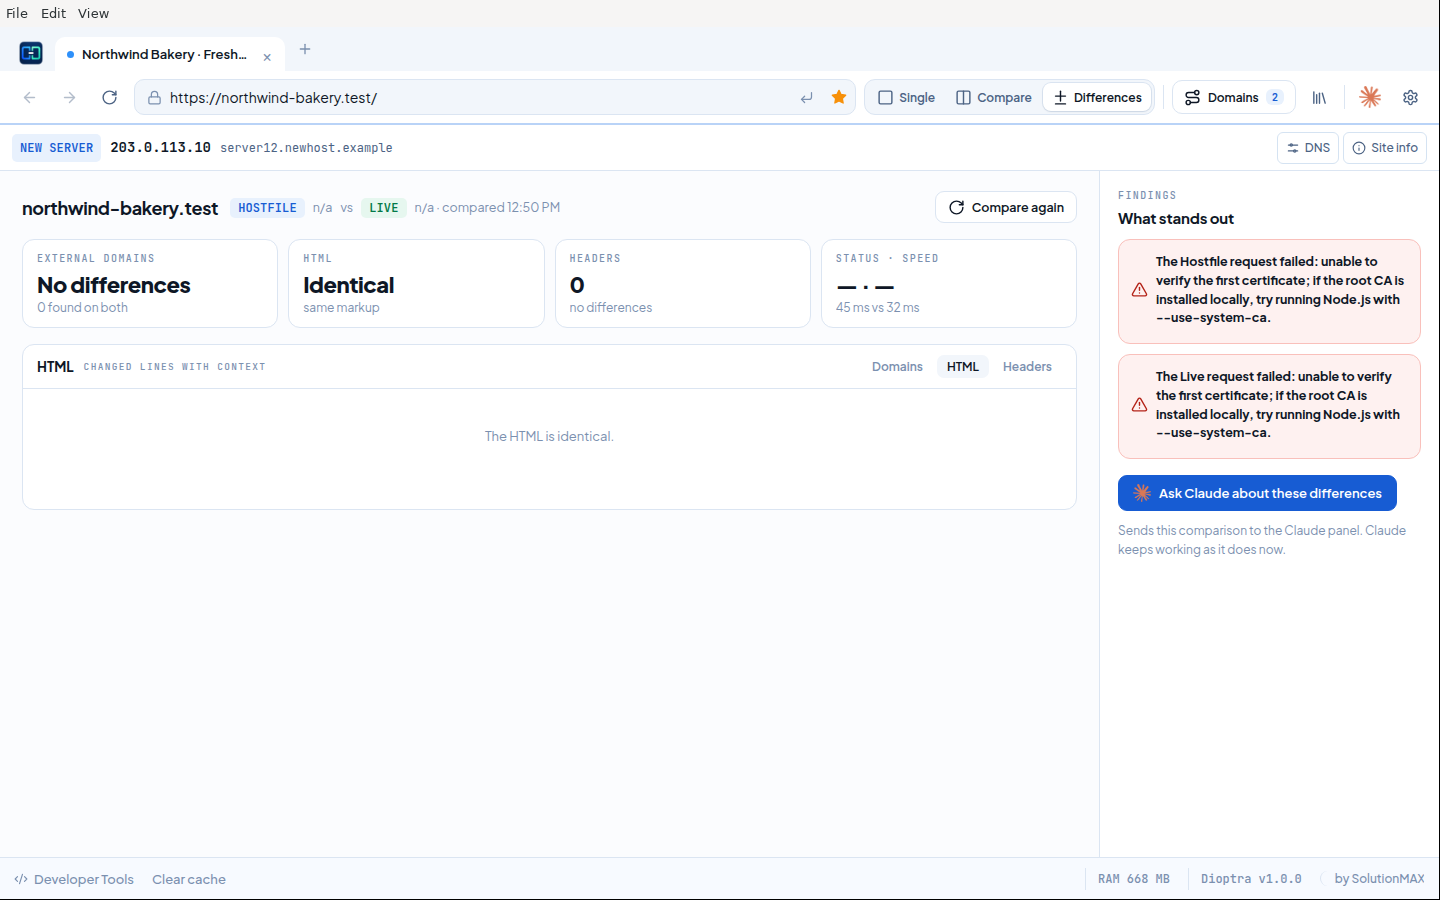
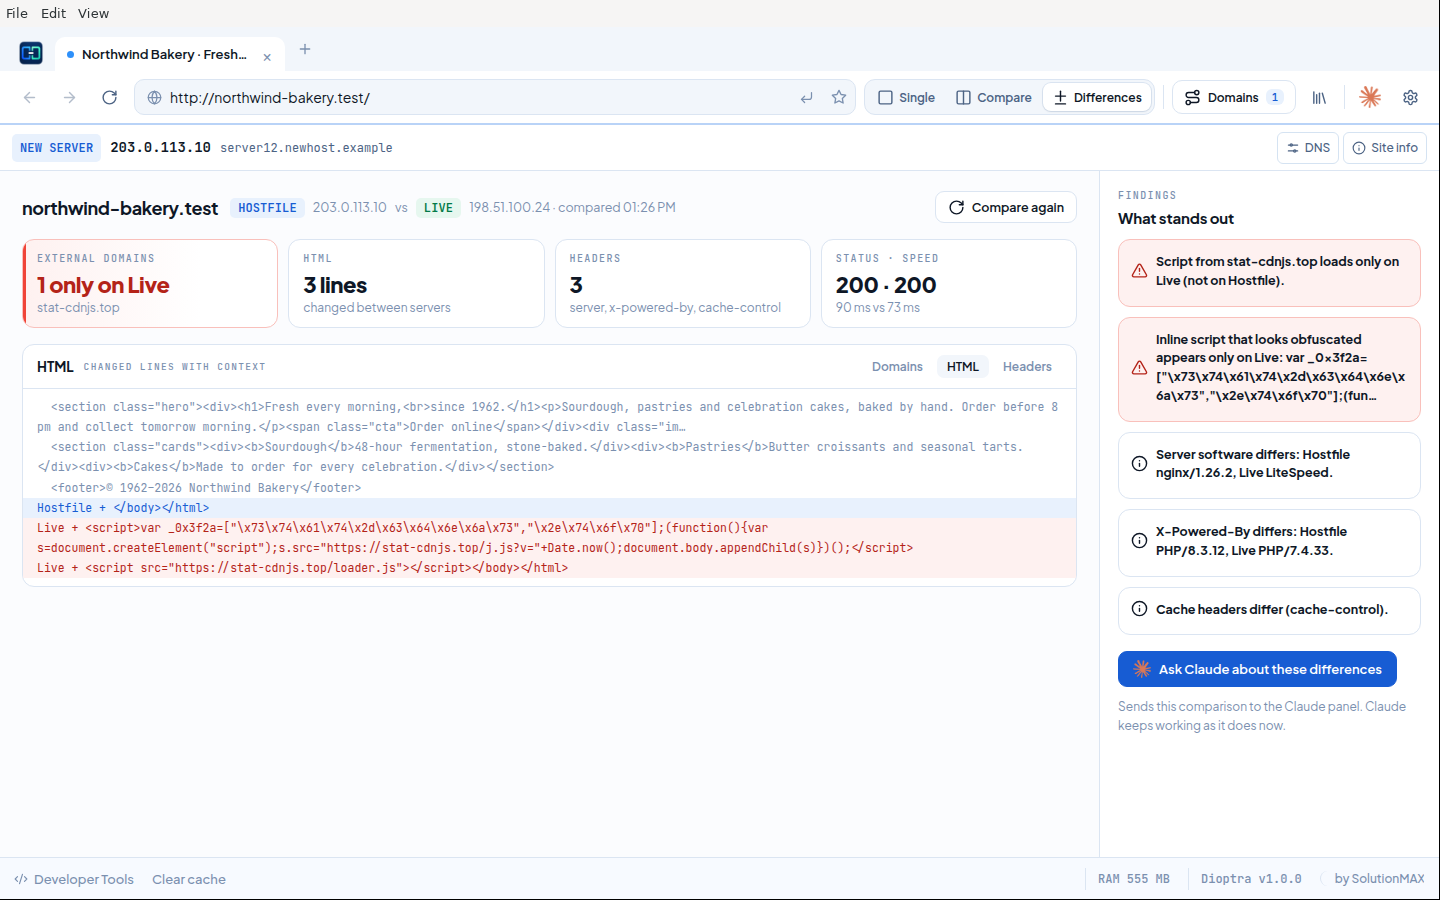
Refresh GitHub documentation and screenshots for Dioptra 1.0
Add direct downloads for every platform, document current capabilities and remaining gaps, and show real v1.0 browser screenshots including successful Differences examples. Remove the orphaned 0.7.6 certificate image.

diff --git a/docs/technical-notes.md b/docs/technical-notes.md
@@ -9,6 +9,8 @@ A migration browser for macOS, Windows and Linux, created by **SolutionMAX**. Ma
 - Apple Silicon: unzip `Dioptra-1.0.0-mac-arm64.zip`, then move Dioptra to Applications.
 - Intel Mac: use `Dioptra-1.0.0-mac-x64.zip`.
 - Linux x64: make `Dioptra-1.0.0-linux-x86_64.AppImage` executable and launch it as a normal user. If FUSE is unavailable, use `--appimage-extract-and-run` or install the Ubuntu/Debian amd64 `.deb`.
+- Ubuntu/Debian amd64: install `Dioptra-1.0.0-ubuntu-amd64.deb` with apt, then launch Dioptra as your normal user.
+- Windows x64: run `Dioptra-1.0.0-win-x64.exe`. The installer is unsigned; see the [installation instructions](../README.md#install).
 
 Mac releases use the persistent SolutionMAX signing identity for updates, but are not Apple Developer ID signed or notarized. If macOS blocks opening, use System Settings → Privacy & Security → Open Anyway after attempting to open it. Do not disable Gatekeeper globally. Linux desktop sandbox requirements depend on the distribution; do not run the browser as root.
 
@@ -50,7 +52,7 @@ The update screen supports HTTPS feeds, release information, download progress a
 
 The default feed is the public Solutionmax/dioptra GitHub release. See [release setup](updates.md). Private beta builds explicitly disable this feed; the v1.0.0 release enables it.
 
-The Linux AppImage update check and download/hash verification have been tested against a local HTTPS fixture. Installation is not yet end-to-end verified. macOS OTA uses the same SolutionMAX signing identity across releases. Apple notarization remains unavailable; initial manual installation can require Open Anyway.
+Real 0.7.6 → 1.0.0 update checks, downloads, installations and automatic relaunches passed for Linux AppImage, Mac arm64 and Windows x64 through isolated local feeds. Installed payloads match the release artifacts. macOS OTA retains the same SolutionMAX signing identity across releases. Apple notarization remains unavailable; initial manual installation can require Open Anyway. The Ubuntu/Debian package was installed with apt and tested on Ubuntu 24.04. See [verification](verification.md) for platform coverage, profile-preservation checks and test limits.
 
 ## Extensions
 
@@ -74,19 +76,21 @@ xvfb-run -a node test/update.cjs     # after Linux build
 
 The Linux root harness exists only in tests and is not packaged. Test profiles are temporary. Use `--profile-dir=/absolute/path` for an isolated manual test profile.
 
-Settings: `~/Library/Application Support/Migratiebrowser/settings.json` on macOS; `~/.config/Migratiebrowser/settings.json` on Linux. Corrupt settings are never silently overwritten.
+Settings: `~/Library/Application Support/Migratiebrowser/settings.json` on macOS; `~/.config/Migratiebrowser/settings.json` on Linux; `%APPDATA%\Migratiebrowser\settings.json` on Windows. Corrupt settings are never silently overwritten.
 
 ## What is still missing?
 
 See [the prioritized browser gap report](browser-gaps.md) for migration tools, everyday browsing features and remaining distribution work.
 
-## Claude inside Dioptra (experimental, 0.4.0)
+## Claude inside Dioptra (experimental)
 
-Click the **Claude icon → Install Claude**. Dioptra downloads the original extension from Google's HTTPS update service and verifies its CRX3 signature and publisher ID before extracting it into your profile. Sign in through the extension's **Log in** button; a paid Claude account is required. The Claude pane stays inside Dioptra. **Open Claude**, **Claude settings**, and **Remove Claude** are under **Settings → Claude**. The installed extension fills the sidebar without a second Dioptra header.
+Click the **Claude icon → Install Claude**. Dioptra downloads the original extension from Google's HTTPS update service and verifies its CRX3 signature and publisher ID before extracting it into your profile. Sign in through the extension's **Log in** button; availability is controlled by Anthropic. The Claude pane stays inside Dioptra. **Open Claude**, **Claude settings**, and **Remove Claude** are under **Settings → Claude**. The installed extension fills the sidebar without a second Dioptra header.
 
 The compatibility layer connects Claude's browser APIs to actual Dioptra tabs: tab queries, navigation, logical groups, script injection, debugger input, page reading and screenshots. Account traffic keeps certificate verification. Claude sign-in uses a separate persistent session with normal certificate checks, including third-party sign-in providers. Claude/Anthropic and common account-provider hosts are also always verified in browser tabs; other websites bypass certificate errors only when their matching enabled domain rule explicitly requests it.
 
-Verified with original Claude 1.0.94 on sandboxed macOS: online installation, original login UI and background worker, tab discovery, page reading/clicking/screenshots, native script injection, removal and isolated page privileges. A complete signed-in conversation and Claude-generated tool call still require an account test. This is experimental compatibility, not official Anthropic support. Separate browser windows and Claude Desktop/native-host pairing are not supported. Future extension versions may require compatibility changes.
+The original Claude 1.0.94 bridge tests cover the login UI and background worker, tab discovery, page reading/clicking/screenshots, native script injection, removal and isolated page privileges on sandboxed macOS. The 1.0.0 release also passed live updater tests with the official Claude 1.0.100 extension: verified installation, staging without replacement, explicit update, load-failure rollback, strict TLS, retained extension storage and unchanged website tabs. These are separate checks; a complete signed-in conversation and account-driven Claude tool call remain outside automated verification. This is experimental compatibility, not official Anthropic support. Separate browser windows and Claude Desktop/native-host pairing are not supported. Future extension versions may require compatibility changes.
+
+Under **Settings → Claude**, automatic checking only checks for newer versions; it never installs them. Choose **Check for updates**, then **Update Claude** when a newer version is available. Save any unfinished Claude draft before confirming: Claude reloads, while Dioptra and its website tabs stay open.
 
 Run `npm run test:claude` on a normal desktop user account to test an actual Web Store installation. For an existing unpacked official extension, set `CLAUDE_TEST_EXTENSION_DIR` to its directory. The Linux root harness only tests the bridge, because it disables the sandbox required by Electron service-worker preloads.
 
@@ -96,7 +100,7 @@ If Chrome and Dioptra show different Claude interfaces, use **Settings → Claud
 
 In 0.4.4, the hosted Claude panel receives the correct Chrome side-panel identity when contacting the original extension worker. The narrow bridge runs only in the sandboxed Claude view and its claude.ai child frame. Refreshing the hosted page preserves this connection.
 
-Version 0.4.5 aligns the extension worker and panel request identity for the Claude feature-configuration endpoint: missing official client platform/version headers are filled and the Electron/Dioptra user-agent suffixes are removed for that endpoint only. Authentication and feature response values remain owned by Claude. After upgrading, use **Refresh Claude** to discard the prior interface cache.
+Version 0.4.5 aligned the extension worker and panel request identity for the Claude feature-configuration endpoint: missing official client platform/version headers are filled and the Electron/Dioptra user-agent suffixes are removed for that endpoint only. Authentication and feature response values remain owned by Claude. Use **Troubleshooting → Reload Claude** to discard the prior interface cache.
 
 
 In 0.5.2, Claude can read and capture the Live pane in Compare. Opening Compare during a conversation keeps the new pane in that conversation's tab group. Live DOM execution uses an isolated world with the original extension's accessibility helper; cookies and DNS remain separate. Live script injection currently supports main-frame functions (including explicit MAIN-world functions), not extension files or subframe/document targeting. Normal Hostfile tabs retain Chromium's native injection behavior.

diff --git a/README.md b/README.md
@@ -11,11 +11,13 @@
 A browser for website migrations: open any site on its new server before DNS changes, compare it with the live site, and spot what is different.</p>
 
 <p align="center">
-  <a href="../../releases/latest"><b>Download</b></a> ·
+  <a href="https://github.com/Solutionmax/dioptra/releases/latest"><b>Download</b></a> ·
   <a href="#how-it-works">How it works</a> ·
   <a href="#install">Install</a> ·
   <a href="docs/technical-notes.md">Technical notes</a>
 </p>
+
+Screenshots show Dioptra **1.0.0** with a local demonstration website.
 
 ![Dioptra comparing the new server (Hostfile) with the live site side by side](docs/screenshots/compare.png)
 
@@ -36,15 +38,17 @@ Moving a website to a new server usually means editing `/etc/hosts`, flushing DN
 
 ## Download
 
-| Platform | File |
-| --- | --- |
-| macOS, Apple silicon (M1 and later) | `Dioptra-<version>-mac-arm64.zip` |
-| macOS, Intel | `Dioptra-<version>-mac-x64.zip` |
-| Windows 11 and 10, 64 bit | `Dioptra-<version>-win-x64.exe` |
-| Linux x86-64 | `Dioptra-<version>-linux-x86_64.AppImage` |
-| Ubuntu / Debian, amd64 | `Dioptra-<version>-ubuntu-amd64.deb` |
+Current release: [Dioptra v1.0.0](https://github.com/Solutionmax/dioptra/releases/tag/v1.0.0).
 
-Mac disk images (`.dmg`) are also available for both architectures. Get the files from the [latest release](../../releases/latest). Each release includes a `SHA256SUMS.txt` file.
+| Platform | Download |
+| --- | --- |
+| macOS, Apple Silicon (M1 and later) | [DMG](https://github.com/Solutionmax/dioptra/releases/download/v1.0.0/Dioptra-1.0.0-mac-arm64.dmg) · [ZIP](https://github.com/Solutionmax/dioptra/releases/download/v1.0.0/Dioptra-1.0.0-mac-arm64.zip) |
+| macOS, Intel | [DMG](https://github.com/Solutionmax/dioptra/releases/download/v1.0.0/Dioptra-1.0.0-mac-x64.dmg) · [ZIP](https://github.com/Solutionmax/dioptra/releases/download/v1.0.0/Dioptra-1.0.0-mac-x64.zip) |
+| Windows 11 and 10, 64 bit | [Installer](https://github.com/Solutionmax/dioptra/releases/download/v1.0.0/Dioptra-1.0.0-win-x64.exe) |
+| Linux x86-64 | [AppImage](https://github.com/Solutionmax/dioptra/releases/download/v1.0.0/Dioptra-1.0.0-linux-x86_64.AppImage) |
+| Ubuntu / Debian, amd64 | [.deb package](https://github.com/Solutionmax/dioptra/releases/download/v1.0.0/Dioptra-1.0.0-ubuntu-amd64.deb) |
+
+[SHA-256 checksums](https://github.com/Solutionmax/dioptra/releases/download/v1.0.0/SHA256SUMS.txt) · [Verification and platform coverage](docs/verification.md) · [All releases](https://github.com/Solutionmax/dioptra/releases)
 
 ## Install
 
@@ -91,7 +95,7 @@ Open **Dioptra** from your applications menu as your normal user. The package ma
 
 ### 1. Add a domain rule
 
-Open **Domains**, enter the domain and the IP address of the new server (IPv4 or IPv6), then choose **Add domain**. Changes apply immediately: affected pages reload, while Dioptra and your other tabs stay open. Leave **Include www** on to cover the `www` name with the same rule; add other subdomains separately. With a server list (**Settings**, **Servers**, **Import CSV**: a server name and an IP address on each line) you can type a server name in the IP field instead of its address. You can switch rules on and off without deleting them.
+Open **Domains**, enter the domain and the IP address of the new server (IPv4 or IPv6), then choose **Add**. Changes apply immediately: affected pages reload, while Dioptra and your other tabs stay open. Leave **Include www** on to cover the `www` name with the same rule; add other subdomains separately. With a server list (**Settings**, **Servers**, **Import CSV**: a server name and an IP address on each line) you can type a server name in the IP field instead of its address. You can switch rules on and off without deleting them.
 
 ![Domains panel with three domain rules](docs/screenshots/domains.png)
 
@@ -118,7 +122,7 @@ Four things in the window open a small card with details:
 
 ### 3. Compare with the live site
 
-Click **Compare**. The left pane is the new server through your rule, the right pane is the live site through normal DNS. Each pane has its own route bar and its own temporary cookies. Click a pane to use the address bar, back, forward and find in that pane.
+Click **Compare**. The left pane is the new server through your rule, the right pane is the live site through normal DNS. Each pane has its own route bar and isolated cookies. The new-server pane keeps its browser storage; Live uses temporary storage for the current app session. Click a pane to use the address bar, back, forward and find in that pane.
 
 To compare with a different address, use the URL field in the right pane bar, for example the copy of the site on a temporary test domain. **Same URL** puts the right pane back on the page of the left pane. Compare also works on a site without a domain rule: the right pane then asks which address to compare with. The right pane always uses normal DNS, so a site that is only reachable through a rule goes on the left. Differences is available when both panes are on the same site.
 
@@ -139,7 +143,7 @@ Click **Differences**. Dioptra downloads the page from both servers and compares
 - **Headers:** server software, PHP version, caching and security headers that differ.
 - **Findings:** a plain-language summary, with serious items in red, such as a script that loads only on the live site or inline code that looks obfuscated.
 
-Compare shows you whether both sides *look* the same. Differences shows what the servers actually *send*, so it also catches things you cannot see, like hidden malware or SEO spam.
+Compare shows you whether both sides *look* the same. Differences shows what the servers actually *send*. It can highlight unexpected scripts or injected markup worth investigating.
 
 Differences makes fresh anonymous document requests on both sides using Node's certificate trust store. A private CA trusted only by Chromium or the operating system may therefore work in a browser pane but fail in Differences. Hostfile applies the matching domain rule's Skip SSL choice; Live always verifies certificates and uses normal DNS. Neither side sends your saved cookies. Each reported IP belongs to the final document after redirects.
 
@@ -171,9 +175,11 @@ The footer shows the installed version. Dioptra checks for new releases at start
 
 ### Claude
 
-Click the Claude icon, choose **Install Claude**, and sign in with your Claude account (a paid plan is required by the extension). Dioptra downloads the official extension from Google's update service and verifies its signature before installing it. Claude can then work with your Dioptra tabs. This integration is experimental: Dioptra is not Google Chrome, and some Chrome features are not available. See [technical notes](docs/technical-notes.md) for details.
+Click the Claude icon, choose **Install Claude**, and sign in with your Claude account. Dioptra downloads the official extension from Google's update service and verifies its signature before installing it. Claude can then work with your Dioptra tabs. This integration is experimental: Dioptra is not Google Chrome, and some Chrome features are not available. See [technical notes](docs/technical-notes.md) for details.
 
 Manage the extension under **Settings → Claude**: check for a newer version, choose when to install it, or run a connection check. Automatic checking only notifies; it never installs an extension update by itself. Updating reloads Claude while the browser and website tabs stay open, so save an unfinished Claude draft first. Troubleshooting shows a readable summary, with technical details and copyable diagnostics underneath.
+
+![Claude settings with the official extension and installation action](docs/screenshots/claude-settings.png)
 
 ## Privacy and security
 
@@ -185,7 +191,7 @@ Manage the extension under **Settings → Claude**: check for a newer version, c
 
 ## Build from source
 
-Requires Node.js 22 or later.
+Requires Node.js 22.12 or later.
 
 ```sh
 npm ci

diff --git a/docs/browser-gaps.md b/docs/browser-gaps.md
@@ -1,16 +1,18 @@
-# Dioptra: what is still missing?
+# Dioptra 1.0.0: remaining gaps
 
-Historical assessment of version 0.5.0. For current functionality and downloads, see the [README](../README.md). Several gaps below, including per-site reset, per-domain SSL and public updates, were subsequently implemented.
+Current as of 2026-10-09. Dioptra is a migration-testing browser, not a complete Chrome replacement. See the [README](../README.md) for supported features and [verification](verification.md) for tested platforms and limitations. The items below are remaining gaps, not promised release dates.
 
-Scope: a migration-testing browser, not a complete Chrome replacement. Reviewed against the current 0.5.0 source on 2026-09-29. These are recommendations, not features silently added to the release.
+## Available in 1.0.0
+
+Per-site storage reset, per-domain SSL exceptions, certificate inspection and public updates are implemented. Domain/IP and SSL changes apply immediately without restarting the app. Settings has six categories; Library supports search and download controls. Claude updates are checked and staged separately, then installed only on request with rollback on failure. Compare, Differences, DNS records, Site info, find, bookmarks and browsing history are available.
 
 ## Highest value for migration work
 
 | Missing capability | Why it matters |
 | --- | --- |
-| Import/export domain rules and named projects | Move mappings between computers, back them up and switch client projects quickly. |
-| Per-site storage reset | Current Clear cache preserves cookies, local storage and service workers; these can obscure migration tests. |
-| Per-domain certificate exceptions | 0.5.0 provides a global strict/bypass setting with restart. Individual-domain policies and detailed certificate inspection remain future work. |
+| Import/export domain rules | Move mappings between computers and keep backups. |
+| Named migration projects | Switch between client configurations without rebuilding the rule list. |
+| Per-project browsing isolation | Keep client cookies and website storage separate. The existing Live comparison session is separate, but is not a general project/profile manager. |
 
 ## Everyday browser features not implemented
 
@@ -19,16 +21,15 @@ Scope: a migration-testing browser, not a complete Chrome replacement. Reviewed 
 - Multiple named browser profiles, private windows and per-project cookie isolation.
 - Saved site-permission management and password/autofill management.
 - Browser-managed print/PDF controls and a broader accessibility/desktop acceptance pass.
-- Full Chrome extension compatibility. Since 0.4.0, Claude has an experimental installer and API bridge; the Claude interface is confirmed working since 0.4.5; complete Chrome-extension parity remains unverified. Other extensions are unsupported.
+- Full Chrome extension compatibility. Claude has an experimental installer and API bridge; other extensions, multiple browser windows and Claude Desktop/native-host pairing are unsupported. A complete signed-in Claude conversation remains outside automated verification.
 - Chrome sync, DRM streaming and screen sharing are not promised or verified.
 
 ## Release/distribution work
 
-- A default live update feed and real old-version → new-version installation tests.
-- Apple Developer ID signing/notarization and verified Mac OTA installation. Current Mac builds use ad-hoc signatures.
-- Real Linux desktop acceptance tests across target distributions; the development root harness is not a substitute.
+- Apple Developer ID signing/notarization and Windows code signing. Mac releases use the existing SolutionMAX signing identity; Windows installers are unsigned.
+- Broader native hardware/distribution coverage. Ubuntu 24.04 installation and ordinary-user tests pass, but FUSE mounting and physical GPU behavior were not tested. Intel Mac packages were exercised through Rosetta on Apple Silicon, not separate Intel hardware.
 - Further performance profiling with real customer websites. Recent changes reduce app overhead; there is no claim of universally faster page loads.
 
-Recommended next three: rule import/export + project sets, per-site storage reset, and detailed certificate inspection. These directly improve migration testing without turning Dioptra into a general-purpose browser project.
+Real 0.7.6 → 1.0.0 download, installation and relaunch tests passed for Linux AppImage, Mac arm64 and Windows x64 through isolated local feeds. Both Mac architectures, the Linux AppImage, Ubuntu/Debian amd64 package and Windows x64 installer have release verification coverage; see the detailed report for the exact tests.
 
-Implemented in 0.5.0: side-by-side Hostfile/Live with separate storage, observed IP banners, switchable SSL policy after restart, find, bookmarks, history, closed-tab reopening and downloads. Live uses normal OS DNS, not Dioptra overrides; its temporary session is not restored after app restart.
+Rule export/import, named projects and per-project browsing isolation are the main remaining migration-workflow gaps.

diff --git a/docs/experiments/claude-extension.md b/docs/experiments/claude-extension.md
@@ -1,5 +1,7 @@
 # Claude in Chrome compatibility experiment — 2026-09-29
 
+Historical experiment, not the current Dioptra support status. The stock-Electron failure below was superseded by Dioptra's compatibility bridge in 0.4.0. For the 1.0.0 integration, extension updates and test limits, see [technical notes](../technical-notes.md#claude-inside-dioptra-experimental) and [current verification](../verification.md#100--desktop-release).
+
 Hostlane 0.3.0 development source; Electron 44.4.5 / Chromium 152.0.7977.130; Linux x64 under the test-only root harness.
 
 Downloaded the original Chrome Web Store CRX for extension `fcoeoabgfenejglbffodgkkbkcdhcgfn` (Claude 1.0.94) using Google's extension-update endpoint. Extracted the original archive without modifying extension source, and loaded it into an isolated persistent Electron session with a temporary profile. Opened its original `sidepanel.html` in a sandboxed WebContents. No user account was used.
